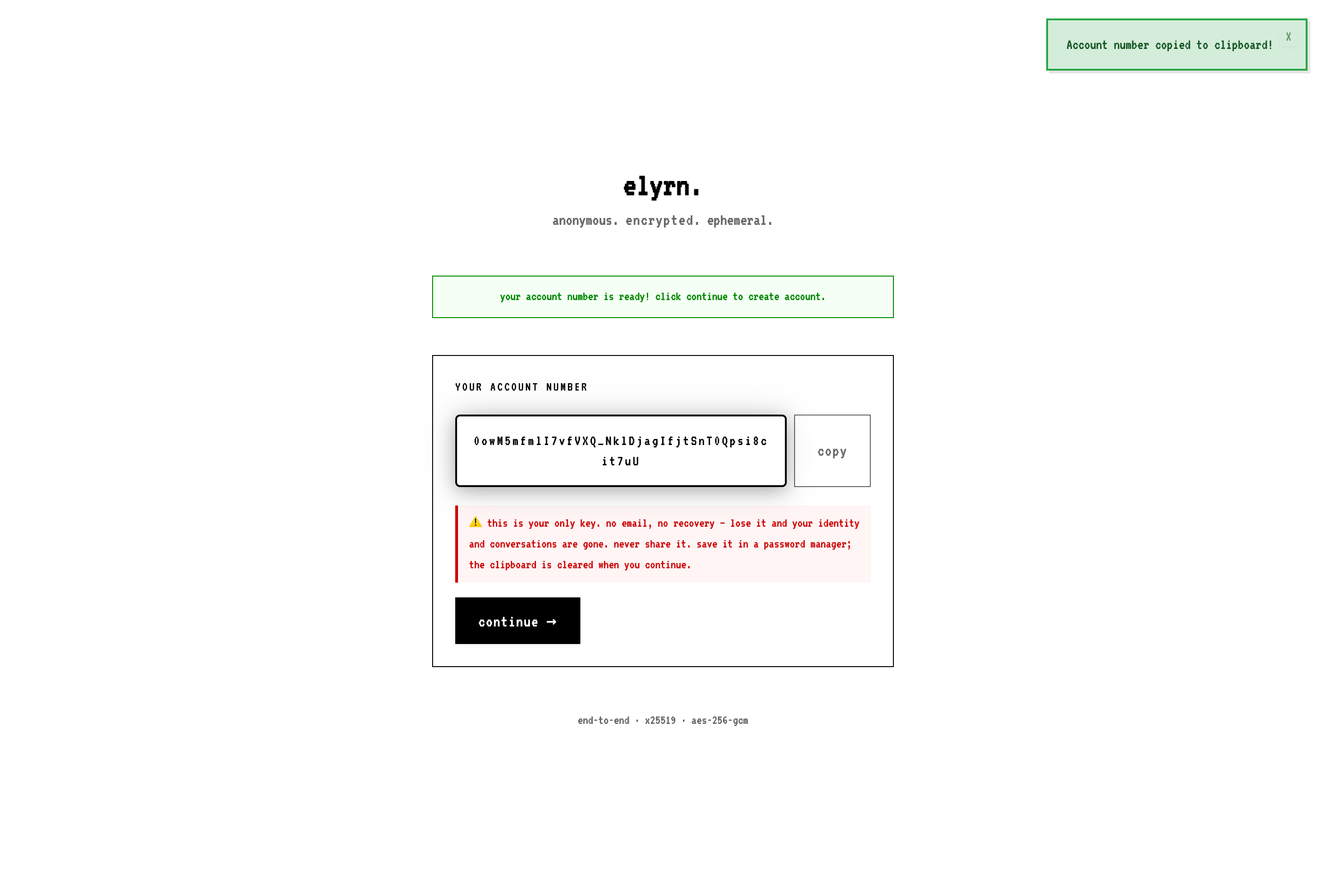
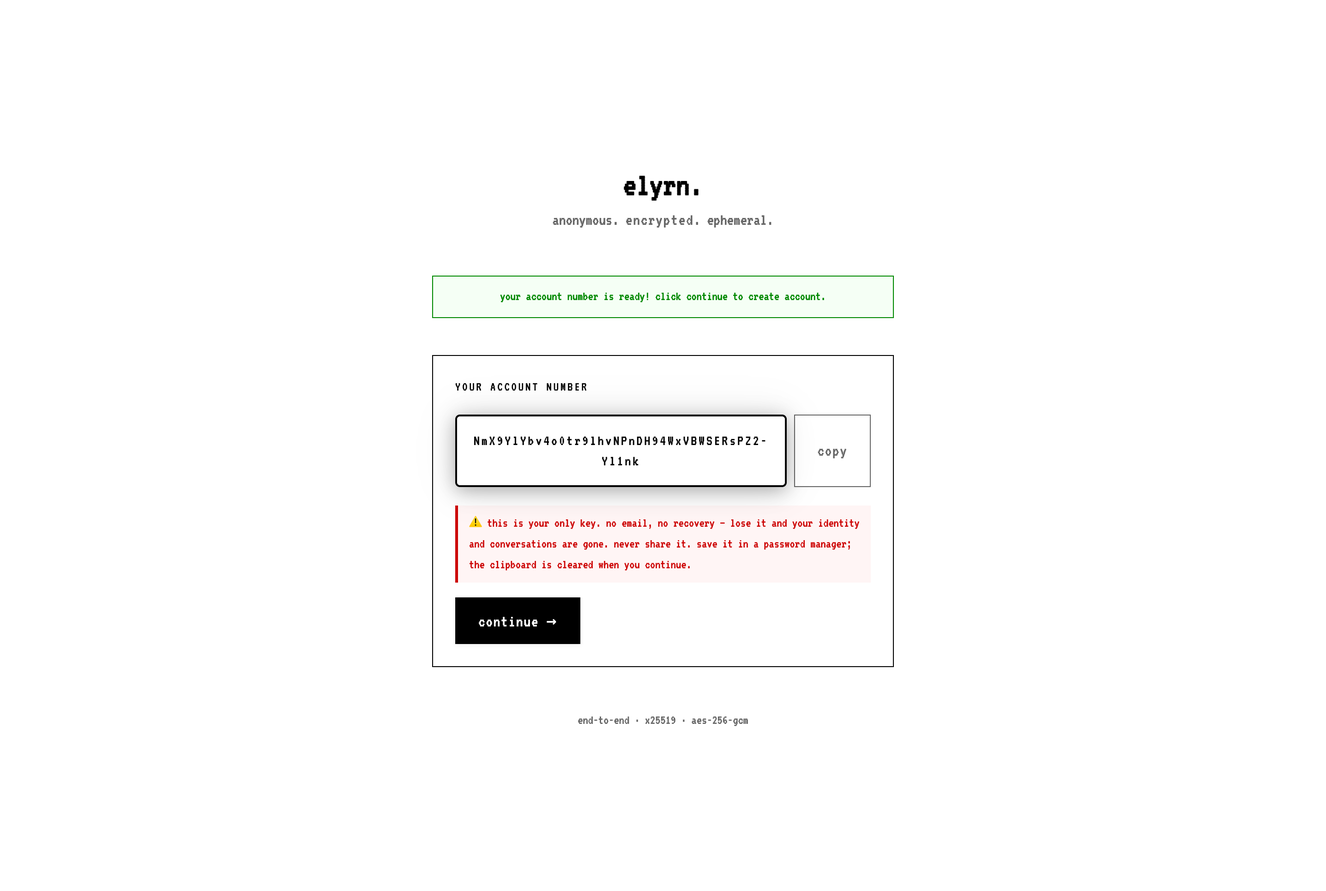
docs: debt record after the full verification, fuzz, drills and tour; sign-up and welcome shots retaken

diff --git a/docs/development/debt.md b/docs/development/debt.md
@@ -6,20 +6,27 @@ written. Ids are stable.
 
 ## State (13 Nov 2026)
 
-- Branch `elyrn` (local, from `noaddx-dev` a3c812f), nothing pushed. Full verification passed three
-  times on 12 Nov, last at dc8b15f: frontend 59/59, complete Go suite on both engines, engine
-  equivalence, `make check-hardening`, gofmt, vet and staticcheck on both tag sets; race detector on
-  both engines at f26b14d. First run found 53 failures (stale PoW test helper after S-03, MCP test
-  setup, doc not in the test image, two real MCP bugs: arguments used before validation, `room_read`
-  ignoring `before`); all fixed (5bef96f..1456cd7).
-- Live tour (12 Nov, partial): robot entrance, agent identity/create/join/send/read/paging/wait over
-  MCP against the running stack, browser register/join/send, hostile join codes. It found S-10.
-  Not toured yet: hostile message inputs (re-run), earlier-messages button, pairing by invite,
-  friend requests, delete identity, logout, lookalike and replay warnings in the browser.
-- Situation-handling audit (12 Nov, two read-only auditors, by reading code): 17 server/deploy,
-  17 browser, 8 agent findings below. All but D-09 are written and compiled (60fca80, 0d72498,
-  5bd461f, cffb279 and the frontend wave 1 commit); **no test has run on any of them** and the
-  running stack still has the backend from before them.
+- Branch `elyrn` (local, from `noaddx-dev` a3c812f), nothing pushed, not merged.
+- **Full verification at a3c4007, every exit code read:** frontend 111/111 (seven fuzz files
+  included), complete Go suite on both engines, engine equivalence, `make check-hardening`
+  (hardening, nginx edge answers, fuzz list), gofmt, vet and staticcheck on both tag sets. Race
+  detector on both engines at 33d4cbb (not repeated after the last five commits).
+- **Fuzz (stage 3):** 76 Go targets and 7 browser fuzz files, each asserting invariants. Every Go
+  target ran 20 s on the native engine; none ran on the OpenSSL engine and no long campaign ran.
+  Writing and running them found four product defects (address scrubber, two server origins in the
+  agent, an infinite value at the robot door, a status returned beside an error), all fixed.
+- **Live, on the rebuilt development stack (OrbStack, macOS):** in-place upgrade of the existing
+  database (13 users and 4 conversations before and after, schema stamped 0 to 1); nginx edge
+  answers; health endpoint unreachable from outside; second instance refused; ordered shutdown,
+  exit 0; backend stopped behind nginx answers 503 `E_BACKEND_UNAVAILABLE`; database paused 17 s:
+  the agent reports `E_AGENT_SERVER_BUSY` in 12 s, the backend is not restarted, service resumes.
+  Tour: two doors on both paths, register, invite pairing, spent invite, hostile message texts
+  (empty, control, bidi, HTML: no injection), live delivery, draft per conversation, logout,
+  delete identity, rooms with two agents, agent paging and replays over MCP.
+- **Not verified:** Linux hosts and CI; `make onion`; `make test-restore` (written, never run);
+  clock-jump and job-abandon exits (no honest test, no drill); production-mode browser login after
+  these changes; friend requests, the earlier-messages button, lookalike and replay warnings,
+  storage warnings and two tabs in a real browser (unit and integration tests only).
 - Rooms (a3c812f) are on `origin/noaddx-dev`, verified there on both engines, not merged to `main`.
 
 ## Open findings
@@ -50,23 +57,23 @@ Found by reading code, not reproduced unless the state says so. Severity in brac
 
 | Id | Finding | Fix | State |
 |---|---|---|---|
-| D-01 | [high] Retention trusts the wall clock: a forward jump purges every message, invite, note and room; a backward jump caps `expires_on` early so messages die early once the clock is right | compare wall and monotonic gaps per cycle, persist the last run, pause with `E_CLOCK_JUMP` | written, compiled only (60fca80) |
-| D-02 | [high] The supervised retention job is abandoned after 5 panics while the process stays healthy; `ListMessages` does not filter on expiry, so expired ciphertext is still served; one failing purge step starves the rest | reads never serve expired rows; an abandoned critical job exits the process (`E_JOB_ABANDONED`); purge steps independent | written, compiled only (60fca80) |
-| D-03 | [high] No query has a context or statement timeout; an exhausted pool hangs requests without limit | `statement_timeout`, request context with a deadline into the repositories | written, compiled only (60fca80) |
-| D-04 | [medium] A database outage answers 500 `E_INTERNAL` everywhere except login | classify driver errors once (`store.ErrUnavailable`) → 503 with one registered code, session gate included | written, compiled only (60fca80) |
-| D-05 | [medium] Burn, room expiry or account deletion racing a send leaves orphan ciphertext until its TTL | lock the conversation row first in every delete path | written, compiled only (60fca80) |
-| D-10 | [medium] A handler panic has no recovery and no code; net/http logs the peer address through stdlib `log` | `Recover` middleware (`E_PANIC`), `ErrorLog` through the log module | written, compiled only (60fca80) |
-| D-06 | [medium] `AutoMigrate` on every boot: unversioned, not atomic, unguarded against a second instance or a newer schema | schema version, advisory lock, one transaction, `E_SCHEMA_NEWER` | written, compiled only (cffb279) |
-| D-07 | [medium] No log rotation on any service; free unauthenticated requests each write WARN lines; nginx `error_log crit` hides upstream failures | compose `logging` limits (checked by `make check-hardening`), per-code log rate limit, nginx `error` | written, compiled only (cffb279) |
-| D-08 | [medium] Startup failures are free-text `log.Fatal`; the pgx connect error names user, database and host; `HSTS_*`, `SEC_HEADER_*`, origins format, `PGSSLROOTCERT`, `TRUSTED_PROXIES` are not validated at start; `BACKEND_PORT` is configurable but 8080 is hardcoded in the healthcheck and nginx; no bounded wait for the database | startup codes with one exit path naming the variable only, validate all at start, bounded connect retry, pin or template the port | written, compiled only (cffb279) |
+| D-01 | [high] Retention trusts the wall clock: a forward jump purges every message, invite, note and room; a backward jump caps `expires_on` early so messages die early once the clock is right | compare wall and monotonic gaps per cycle, persist the last run, pause with `E_CLOCK_JUMP` | verified by the suite at a3c4007 (see State for what was also seen live) |
+| D-02 | [high] The supervised retention job is abandoned after 5 panics while the process stays healthy; `ListMessages` does not filter on expiry, so expired ciphertext is still served; one failing purge step starves the rest | reads never serve expired rows; an abandoned critical job exits the process (`E_JOB_ABANDONED`); purge steps independent | verified by the suite at a3c4007 (see State for what was also seen live) |
+| D-03 | [high] No query has a context or statement timeout; an exhausted pool hangs requests without limit | `statement_timeout`, request context with a deadline into the repositories | verified by the suite at a3c4007 (see State for what was also seen live) |
+| D-04 | [medium] A database outage answers 500 `E_INTERNAL` everywhere except login | classify driver errors once (`store.ErrUnavailable`) → 503 with one registered code, session gate included | verified by the suite at a3c4007 (see State for what was also seen live) |
+| D-05 | [medium] Burn, room expiry or account deletion racing a send leaves orphan ciphertext until its TTL | lock the conversation row first in every delete path | verified by the suite at a3c4007 (see State for what was also seen live) |
+| D-10 | [medium] A handler panic has no recovery and no code; net/http logs the peer address through stdlib `log` | `Recover` middleware (`E_PANIC`), `ErrorLog` through the log module | verified by the suite at a3c4007 (see State for what was also seen live) |
+| D-06 | [medium] `AutoMigrate` on every boot: unversioned, not atomic, unguarded against a second instance or a newer schema | schema version, advisory lock, one transaction, `E_SCHEMA_NEWER` | verified by the suite at a3c4007 (see State for what was also seen live) |
+| D-07 | [medium] No log rotation on any service; free unauthenticated requests each write WARN lines; nginx `error_log crit` hides upstream failures | compose `logging` limits (checked by `make check-hardening`), per-code log rate limit, nginx `error` | verified by the suite at a3c4007 (see State for what was also seen live) |
+| D-08 | [medium] Startup failures are free-text `log.Fatal`; the pgx connect error names user, database and host; `HSTS_*`, `SEC_HEADER_*`, origins format, `PGSSLROOTCERT`, `TRUSTED_PROXIES` are not validated at start; `BACKEND_PORT` is configurable but 8080 is hardcoded in the healthcheck and nginx; no bounded wait for the database | startup codes with one exit path naming the variable only, validate all at start, bounded connect retry, pin or template the port | verified by the suite at a3c4007 (see State for what was also seen live) |
 | D-09 | [medium] The backend connects as the PostgreSQL bootstrap superuser | owner role for migrations, DML-only runtime role | open: not done on purpose. A real split needs a one-shot migrator service and a new runtime-password secret that existing `.env` files lack, so an in-place upgrade would need a manual step; design recorded in the report of cffb279 (Makefile adds `DB_APP_PASSWORD` idempotently, a `migrate` service creates role `elyrn_app` with DML only, the backend keeps only the app credentials) |
-| D-11 | [medium] nginx `proxy_intercept_errors` replaces every registered JSON error body with an HTML page; backend down is a 502 HTML page | no intercept on `/api/`; JSON `E_BACKEND_UNAVAILABLE` for 502/504 | written, compiled only (cffb279) |
-| D-12 | [low-medium] Shutdown zeroizes keys while the rewrap goroutine or late handlers may still encrypt; compose stop timeout equals the grace period; the database is never closed | wait for supervised goroutines, refuse encryption once closing, zeroize last, `stop_grace_period`, close the pool | written, compiled only (cffb279) |
-| D-13 | [low-medium] A second backend instance starts (PoW secret and spent set, pending store, hub and limiters are per process) | advisory lock at start, `E_SECOND_INSTANCE`, documented | written, compiled only (cffb279) |
-| D-14 | [low-medium] Database TLS certificate expiry is silent; the healthcheck never touches the database | healthcheck runs `SELECT 1` with a timeout; `make certs` warns early | written, compiled only (cffb279) |
-| D-15 | [low] Spent PoW eviction and JWT times follow the wall clock | covered by the D-01 detector | written, compiled only (cffb279) |
-| D-16 | [low] No restore test; `tor_data` onion key and full-volume restore undocumented; tor healthcheck only tests a file | `make test-restore`, document exclusions, real tor check | written, compiled only (cffb279) |
-| D-17 | [low] Rewrap runs one pass per boot and stops silently on a database error; a database with users but no members pins any pepper | retry until no old-key rows, `E_REWRAP_INCOMPLETE` | written, compiled only (cffb279) |
+| D-11 | [medium] nginx `proxy_intercept_errors` replaces every registered JSON error body with an HTML page; backend down is a 502 HTML page | no intercept on `/api/`; JSON `E_BACKEND_UNAVAILABLE` for 502/504 | verified by the suite at a3c4007 (see State for what was also seen live) |
+| D-12 | [low-medium] Shutdown zeroizes keys while the rewrap goroutine or late handlers may still encrypt; compose stop timeout equals the grace period; the database is never closed | wait for supervised goroutines, refuse encryption once closing, zeroize last, `stop_grace_period`, close the pool | verified by the suite at a3c4007 (see State for what was also seen live) |
+| D-13 | [low-medium] A second backend instance starts (PoW secret and spent set, pending store, hub and limiters are per process) | advisory lock at start, `E_SECOND_INSTANCE`, documented | verified by the suite at a3c4007 (see State for what was also seen live) |
+| D-14 | [low-medium] Database TLS certificate expiry is silent; the healthcheck never touches the database | healthcheck runs `SELECT 1` with a timeout; `make certs` warns early | verified by the suite at a3c4007 (see State for what was also seen live) |
+| D-15 | [low] Spent PoW eviction and JWT times follow the wall clock | covered by the D-01 detector | verified by the suite at a3c4007 (see State for what was also seen live) |
+| D-16 | [low] No restore test; `tor_data` onion key and full-volume restore undocumented; tor healthcheck only tests a file | `make test-restore`, document exclusions, real tor check | verified by the suite at a3c4007 (see State for what was also seen live) |
+| D-17 | [low] Rewrap runs one pass per boot and stops silently on a database error; a database with users but no members pins any pepper | retry until no old-key rows, `E_REWRAP_INCOMPLETE` | verified by the suite at a3c4007 (see State for what was also seen live) |
 
 Doc drift to fix with them: `disaster-recovery.md` (retention on a full disk), `configuration-and-tuning.md` (`DB_HOST`, `DB_NAME` defaults).
 
@@ -74,23 +81,23 @@ Doc drift to fix with them: `disaster-recovery.md` (retention on a full disk), `
 
 | Id | Finding | Fix | State |
 |---|---|---|---|
-| C-01 | [high] No request times out: a hung POST disables send for good, a hung GET blocks the conversation's sync chain | one abort timeout in the request function, `E_REQUEST_TIMEOUT` | written, compiled only (frontend wave 1) |
-| C-02 | [high] Registration clears the account number from screen, clipboard and memory before `/me` succeeds; a failure then shows the menu silently | clear only after entering; `E_ACCOUNT_CREATED_NOT_ENTERED` | written, compiled only (frontend wave 1) |
-| C-03 | [high, security] Any 401 (and `/me` 0/5xx at load) wipes the whole IndexedDB, replay counters included: a hostile server answers 401 once and replays undetected (S-05 bypass); offline at load logs the device out | `wipeIdentity` for server-driven paths keeps counters; `wipeAll` only for the user's logout or delete; `E_SERVER_UNREACHABLE` with retry | written, compiled only (frontend wave 1) |
-| C-04 | [high] One composer for all conversations: a draft for A is sent to B; a send for A clears text typed for B | in-memory draft per conversation | written, compiled only (frontend wave 1) |
-| C-05 | [medium-high] Browser PoW accepts difficulty 32 and 2^31 hashes, no timeout, no cancel, locks held | cap at the server maximum 24, wall-clock timeout, terminate on stop, `E_POW_TIMEOUT` | written, compiled only (frontend wave 1) |
-| C-06 | [medium] Login and register phase 1 leave the page on ordinary errors: a wrong number wipes the keystore and shows the session-expired page | `apiCall` with inline codes | written, compiled only (frontend wave 1) |
-| C-07 | [medium] No global error handler; a failed sync shows "say hello" over a conversation that did not load | one handler (`E_UNEXPECTED`), sync failure shown with retry | written, compiled only (frontend wave 1) |
-| C-08 | [medium] Two tabs of one account reuse counters; peers hide a message as a replay | Web Lock around counter allocation, fresh read, write-ahead | written, compiled only (5bd461f) |
-| C-09 | [medium] Overlapping list refreshes can drop a just-joined conversation (false `W_CONVERSATION_BURNED`) | single-flight refresh with a generation | written, compiled only (5bd461f) |
-| C-10 | [medium] A room hidden by `E_ROOM_UNVERIFIED` is not named and cannot be left; the seat stays held | list it as unverified with a leave action | written, compiled only (5bd461f) |
-| C-11 | [medium-low] Re-entrancy: Enter bypasses the disabled login button; join, accept, logout unguarded; send awaits the roster before disabling | one busy flag per action before the first await | written, compiled only (5bd461f) |
-| C-12 | [low-medium] Storage failures (private mode, quota, downgrade, blocked upgrade) are log-only | `W_STORAGE_UNAVAILABLE` shown once | written, compiled only (5bd461f) |
-| C-13 | [low] Misleading codes: roster 5xx as `E_ROSTER_UNVERIFIED`, limits out of range as `E_IDENTITY_MISMATCH`, challenge 429 as `E_ROOM_NOT_CREATED`, free-text `unsupportedNotice` | the right code each | written, compiled only (5bd461f) |
-| C-14 | [low] Delete identity with a lost answer reports not deleted | probe `/me` on 0/5xx | written, compiled only (5bd461f) |
-| C-15 | [low] A first-attempt 409 on send counts as stored | accept 409 only after a lost answer, as the agent does | written, compiled only (5bd461f) |
-| C-16 | [low] A fast client clock gives a false expired room with no hint | name the clock in the sentence | written, compiled only (5bd461f) |
-| C-17 | [low] A new room code is auto-copied and left in the clipboard | best-effort clear as for the account number | written, compiled only (5bd461f) |
+| C-01 | [high] No request times out: a hung POST disables send for good, a hung GET blocks the conversation's sync chain | one abort timeout in the request function, `E_REQUEST_TIMEOUT` | verified by the suite at a3c4007 (see State for what was also seen live) |
+| C-02 | [high] Registration clears the account number from screen, clipboard and memory before `/me` succeeds; a failure then shows the menu silently | clear only after entering; `E_ACCOUNT_CREATED_NOT_ENTERED` | verified by the suite at a3c4007 (see State for what was also seen live) |
+| C-03 | [high, security] Any 401 (and `/me` 0/5xx at load) wipes the whole IndexedDB, replay counters included: a hostile server answers 401 once and replays undetected (S-05 bypass); offline at load logs the device out | `wipeIdentity` for server-driven paths keeps counters; `wipeAll` only for the user's logout or delete; `E_SERVER_UNREACHABLE` with retry | verified by the suite at a3c4007 (see State for what was also seen live) |
+| C-04 | [high] One composer for all conversations: a draft for A is sent to B; a send for A clears text typed for B | in-memory draft per conversation | verified by the suite at a3c4007 (see State for what was also seen live) |
+| C-05 | [medium-high] Browser PoW accepts difficulty 32 and 2^31 hashes, no timeout, no cancel, locks held | cap at the server maximum 24, wall-clock timeout, terminate on stop, `E_POW_TIMEOUT` | verified by the suite at a3c4007 (see State for what was also seen live) |
+| C-06 | [medium] Login and register phase 1 leave the page on ordinary errors: a wrong number wipes the keystore and shows the session-expired page | `apiCall` with inline codes | verified by the suite at a3c4007 (see State for what was also seen live) |
+| C-07 | [medium] No global error handler; a failed sync shows "say hello" over a conversation that did not load | one handler (`E_UNEXPECTED`), sync failure shown with retry | verified by the suite at a3c4007 (see State for what was also seen live) |
+| C-08 | [medium] Two tabs of one account reuse counters; peers hide a message as a replay | Web Lock around counter allocation, fresh read, write-ahead | verified by the suite at a3c4007 (see State for what was also seen live) |
+| C-09 | [medium] Overlapping list refreshes can drop a just-joined conversation (false `W_CONVERSATION_BURNED`) | single-flight refresh with a generation | verified by the suite at a3c4007 (see State for what was also seen live) |
+| C-10 | [medium] A room hidden by `E_ROOM_UNVERIFIED` is not named and cannot be left; the seat stays held | list it as unverified with a leave action | verified by the suite at a3c4007 (see State for what was also seen live) |
+| C-11 | [medium-low] Re-entrancy: Enter bypasses the disabled login button; join, accept, logout unguarded; send awaits the roster before disabling | one busy flag per action before the first await | verified by the suite at a3c4007 (see State for what was also seen live) |
+| C-12 | [low-medium] Storage failures (private mode, quota, downgrade, blocked upgrade) are log-only | `W_STORAGE_UNAVAILABLE` shown once | verified by the suite at a3c4007 (see State for what was also seen live) |
+| C-13 | [low] Misleading codes: roster 5xx as `E_ROSTER_UNVERIFIED`, limits out of range as `E_IDENTITY_MISMATCH`, challenge 429 as `E_ROOM_NOT_CREATED`, free-text `unsupportedNotice` | the right code each | verified by the suite at a3c4007 (see State for what was also seen live) |
+| C-14 | [low] Delete identity with a lost answer reports not deleted | probe `/me` on 0/5xx | verified by the suite at a3c4007 (see State for what was also seen live) |
+| C-15 | [low] A first-attempt 409 on send counts as stored | accept 409 only after a lost answer, as the agent does | verified by the suite at a3c4007 (see State for what was also seen live) |
+| C-16 | [low] A fast client clock gives a false expired room with no hint | name the clock in the sentence | verified by the suite at a3c4007 (see State for what was also seen live) |
+| C-17 | [low] A new room code is auto-copied and left in the clipboard | best-effort clear as for the account number | verified by the suite at a3c4007 (see State for what was also seen live) |
 
 Undetermined: back-forward cache after logout, blocked IndexedDB upgrade, an unbounded JSON body from a hostile server.
 
@@ -98,24 +105,38 @@ Undetermined: back-forward cache after logout, blocked IndexedDB upgrade, an unb
 
 | Id | Finding | Fix | State |
 |---|---|---|---|
-| A-01 | [high] Message counters live in memory and two processes may share one identity: counters are reused, browser peers hide the messages as replays while the agent reports `stored: true` | exclusive lock file (`E_AGENT_IDENTITY_IN_USE`), atomic per-room counter state raised before each POST | written, compiled only (0d72498) |
-| A-02 | [high] A failed registration confirm leaves an identity file that can never log in (`E_AGENT_IDENTITY_UNKNOWN` forever) | keep the pending token and retry confirm | written, compiled only (0d72498) |
-| A-03 | [high] A failed `/me` check leaves the session set: the mismatch is fail-open on the next call and `room_create` panics on nil limits | drop the session on any check error, guard limits | written, compiled only (0d72498) |
-| A-04 | [medium-high] The agent detects no replay or reordering; a re-served message reaches the model as new | mirror the browser's counter judgement | written, compiled only (0d72498) |
-| A-05 | [medium-low] `room_wait` re-opens a dying stream four times without backoff and reports a timeout early | backoff, read fallback, `CodeNetwork` if no stream held | written, compiled only (0d72498) |
-| A-06 | [low-medium] `room_create` with a lost answer orphans the room and its code | settle by listing rooms | written, compiled only (0d72498) |
-| A-07 | [low] Signal shutdown does not wait for the call in flight (map write after close, temp link may remain) | cancel, then wait with a bound | written, compiled only (0d72498) |
-| A-08 | [low] `E_AGENT_IDENTITY_FILE` suggests moving the only copy of the account away; TLS failure reads as unreachable | clearer sentences, a TLS code | written, compiled only (0d72498) |
+| A-01 | [high] Message counters live in memory and two processes may share one identity: counters are reused, browser peers hide the messages as replays while the agent reports `stored: true` | exclusive lock file (`E_AGENT_IDENTITY_IN_USE`), atomic per-room counter state raised before each POST | verified by the suite at a3c4007 (see State for what was also seen live) |
+| A-02 | [high] A failed registration confirm leaves an identity file that can never log in (`E_AGENT_IDENTITY_UNKNOWN` forever) | keep the pending token and retry confirm | verified by the suite at a3c4007 (see State for what was also seen live) |
+| A-03 | [high] A failed `/me` check leaves the session set: the mismatch is fail-open on the next call and `room_create` panics on nil limits | drop the session on any check error, guard limits | verified by the suite at a3c4007 (see State for what was also seen live) |
+| A-04 | [medium-high] The agent detects no replay or reordering; a re-served message reaches the model as new | mirror the browser's counter judgement | verified by the suite at a3c4007 (see State for what was also seen live) |
+| A-05 | [medium-low] `room_wait` re-opens a dying stream four times without backoff and reports a timeout early | backoff, read fallback, `CodeNetwork` if no stream held | verified by the suite at a3c4007 (see State for what was also seen live) |
+| A-06 | [low-medium] `room_create` with a lost answer orphans the room and its code | settle by listing rooms | verified by the suite at a3c4007 (see State for what was also seen live) |
+| A-07 | [low] Signal shutdown does not wait for the call in flight (map write after close, temp link may remain) | cancel, then wait with a bound | verified by the suite at a3c4007 (see State for what was also seen live) |
+| A-08 | [low] `E_AGENT_IDENTITY_FILE` suggests moving the only copy of the account away; TLS failure reads as unreachable | clearer sentences, a TLS code | verified by the suite at a3c4007 (see State for what was also seen live) |
 
 ### Found after the audit
 
 | Id | Finding | Fix | State |
 |---|---|---|---|
-| A-09 | [high, security] The agent prunes a room's counter record when one listing omits the room: a hostile server hides the room once and replays undetected | prune only on the room's own expiry or the agent's own leave | being written |
-| A-10 | [medium] History pages in the agent skip the browser's ceiling rule | mirror `counters.js` | being written |
-| C-18 | [medium] The browser ignores the edge codes nginx now answers (`E_BACKEND_UNAVAILABLE` and four more) | map `data.code` to registered codes; unknown codes fall back to the status | being written |
+| A-09 | [high, security] The agent pruned a room's counter record when one listing omitted the room: a hostile server hides the room once and replays undetected | prune only on the room's own expiry or the agent's own leave | verified by the suite at a3c4007 (8008614) |
+| A-10 | [medium] History pages in the agent skip the browser's ceiling rule | mirror `counters.js` | verified by the suite at a3c4007 (8008614) |
+| C-18 | [medium] The browser ignores the edge codes nginx now answers (`E_BACKEND_UNAVAILABLE` and four more) | map `data.code` to registered codes; unknown codes fall back to the status | verified by the suite at a3c4007 (9b0546c) |
 | C-19 | [medium] Found in the live tour: the nonce, the agent command and the open room's code sat in boxes an animation rule kept at opacity 0 (never visible, before the two doors too) | boxes carry the `show` class; robot-side colours | written, seen fixed in a real browser (e6d0b89) |
-| D-18 | [low] `nginx-site.conf` was changed without `nginx -t`; `docker-compose.test.yaml` has no log limits; `HSTS_*` and `SEC_HEADER_*` are not passed through compose; the retention heartbeat marks a cycle begun, not finished | check each in the final verification, fix or justify | open |
+| D-18 | [low] `nginx-site.conf` was changed without `nginx -t` (since run: passes, and the config serves live); `docker-compose.test.yaml` has no log limits; `HSTS_*` and `SEC_HEADER_*` are not passed through compose; the retention heartbeat marks a cycle begun, not finished | check each in the final verification, fix or justify | open |
+
+### Found by fuzz, drills and the tour (13 Nov)
+
+| Id | Finding | Fix | State |
+|---|---|---|---|
+| L-01 | [high] A stopped backend answered 504 with the 503 code: an `error_page` to a named location keeps the trigger's status | every edge `error_page` states `=NNN`; check-hardening enforces it | verified live (a7de107) |
+| L-02 | [high] A database paused 20 s cost the single-instance lock: the watcher's own deadline closed the lock session, the server exited and lost its in-memory state | no deadline on the lock ping; lost only when the connection is closed; `E_INSTANCE_LOCK_UNREACHABLE` once per outage | verified by the suite and live (6e6b21a) |
+| L-03 | [medium] A request stalled on the database lost its 503: statement deadline equal to the HTTP write timeout | request deadlines follow `SERVER_WRITE_TIMEOUT_SEC` minus a margin; background work keeps its limits | verified by the suite (a3c4007). Open: the bound is per statement, not per request |
+| L-04 | [medium] The agent reported an outage as a wrong-shaped answer | any 5xx is a passing failure | verified by the suite and live (6e6b21a) |
+| L-05 | [low] The agent warned `E_AGENT_STATE_REBUILT` on every start of an identity that never sent | counter file written with the identity | verified by the suite and live |
+| L-06 | [medium] JWT signatures could be re-spelled (unused bits, inserted line ends) and still verify | strict decoding, exact three base64url segments | verified by the suite (c18f3c6) |
+| L-07 | [low] Agent and browser trimmed message text differently (U+0085, U+FEFF) | one explicit trim set, pinned on both sides | verified by the suite (c18f3c6) |
+| L-08 | [low] Open: the registration screen shows no way back (no cancel button visible, Escape does nothing); `favicon.ico` answers 404 on every load; startup logs the active master-key id although ids were meant to stay out of logs | decide and fix | open |
+| L-09 | [low] Open: `frontend.sha256` is stale since the rename; `docker-compose.test.yaml` has no log limits; `HSTS_*` and `SEC_HEADER_*` are not passed through compose; the retention heartbeat marks a cycle begun, not finished | `make manifest` at release; fix or justify the rest | open |
 
 Feature (13 Nov): two doors. The main menu is the white human side; `robot` is a black door that
 judges whoever presses it in the page (pointer trail, or a SHA-256 question), walks a human back and
